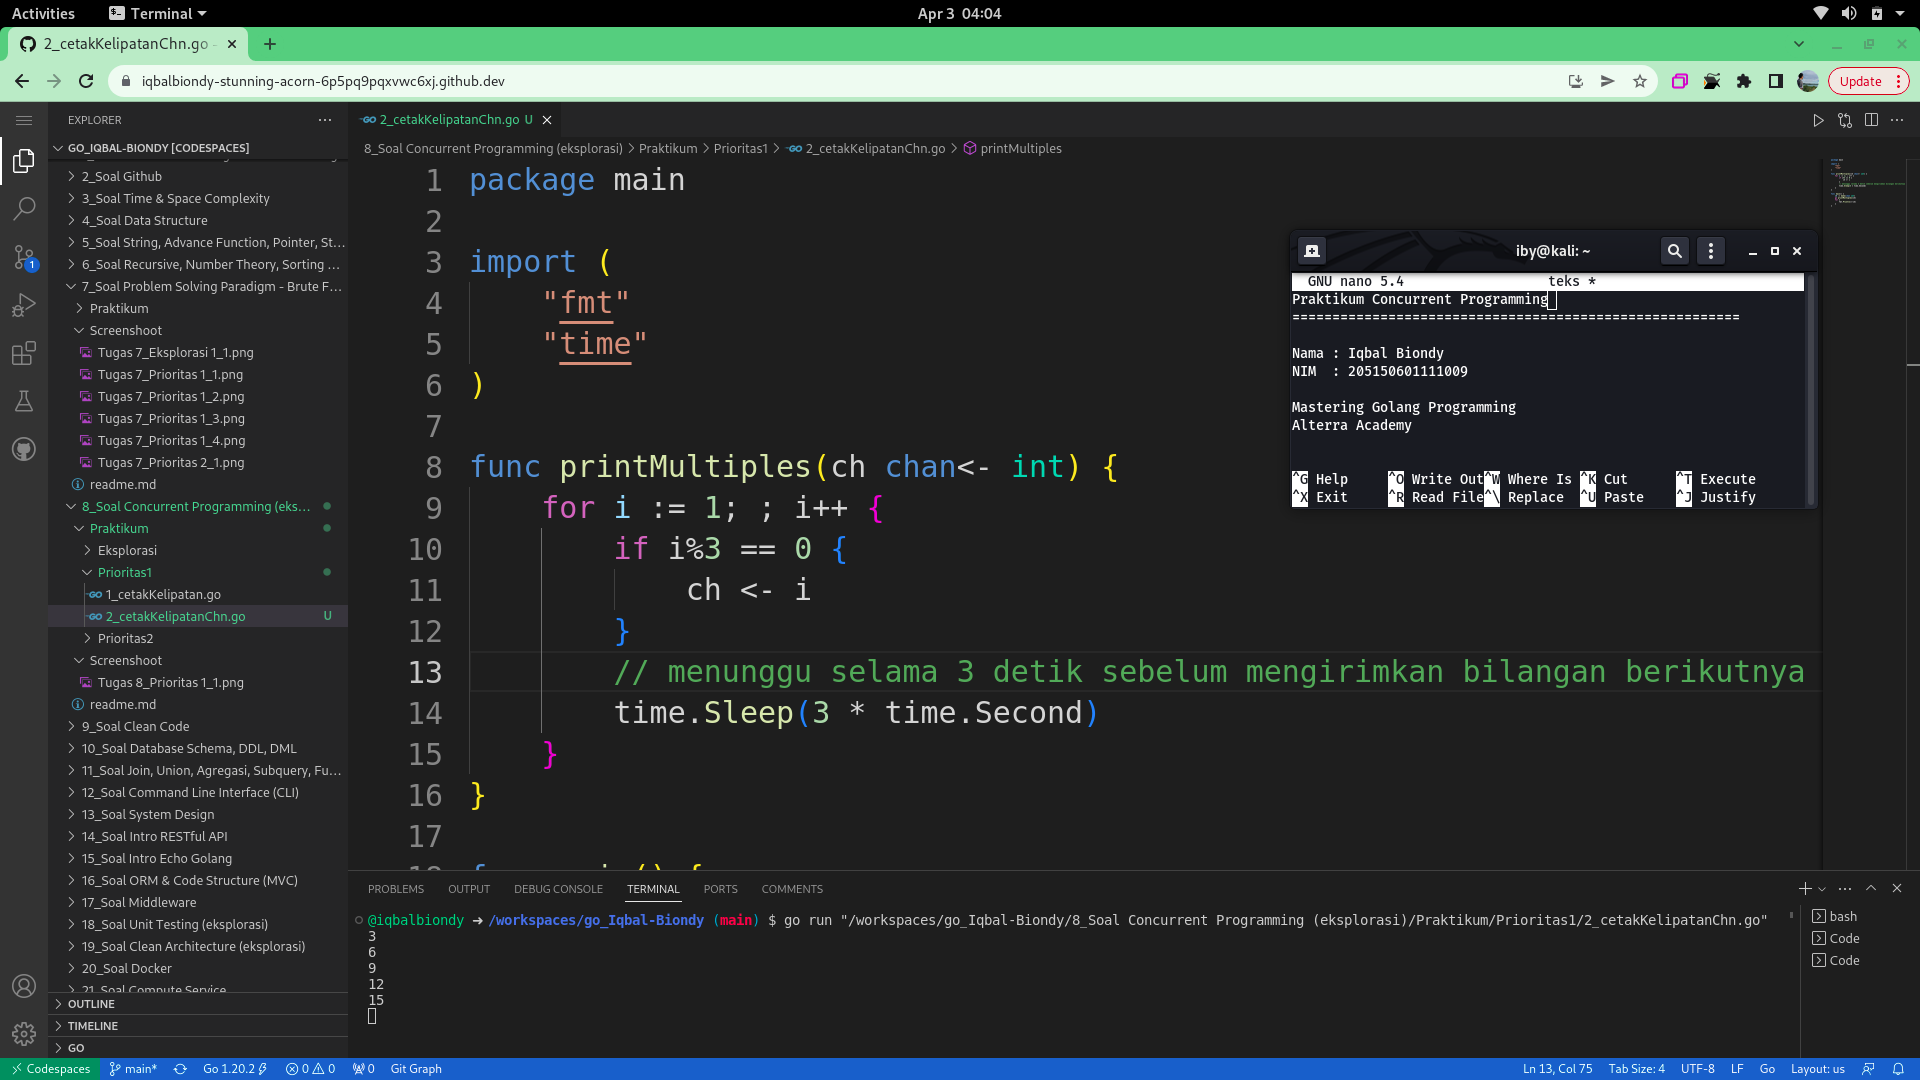
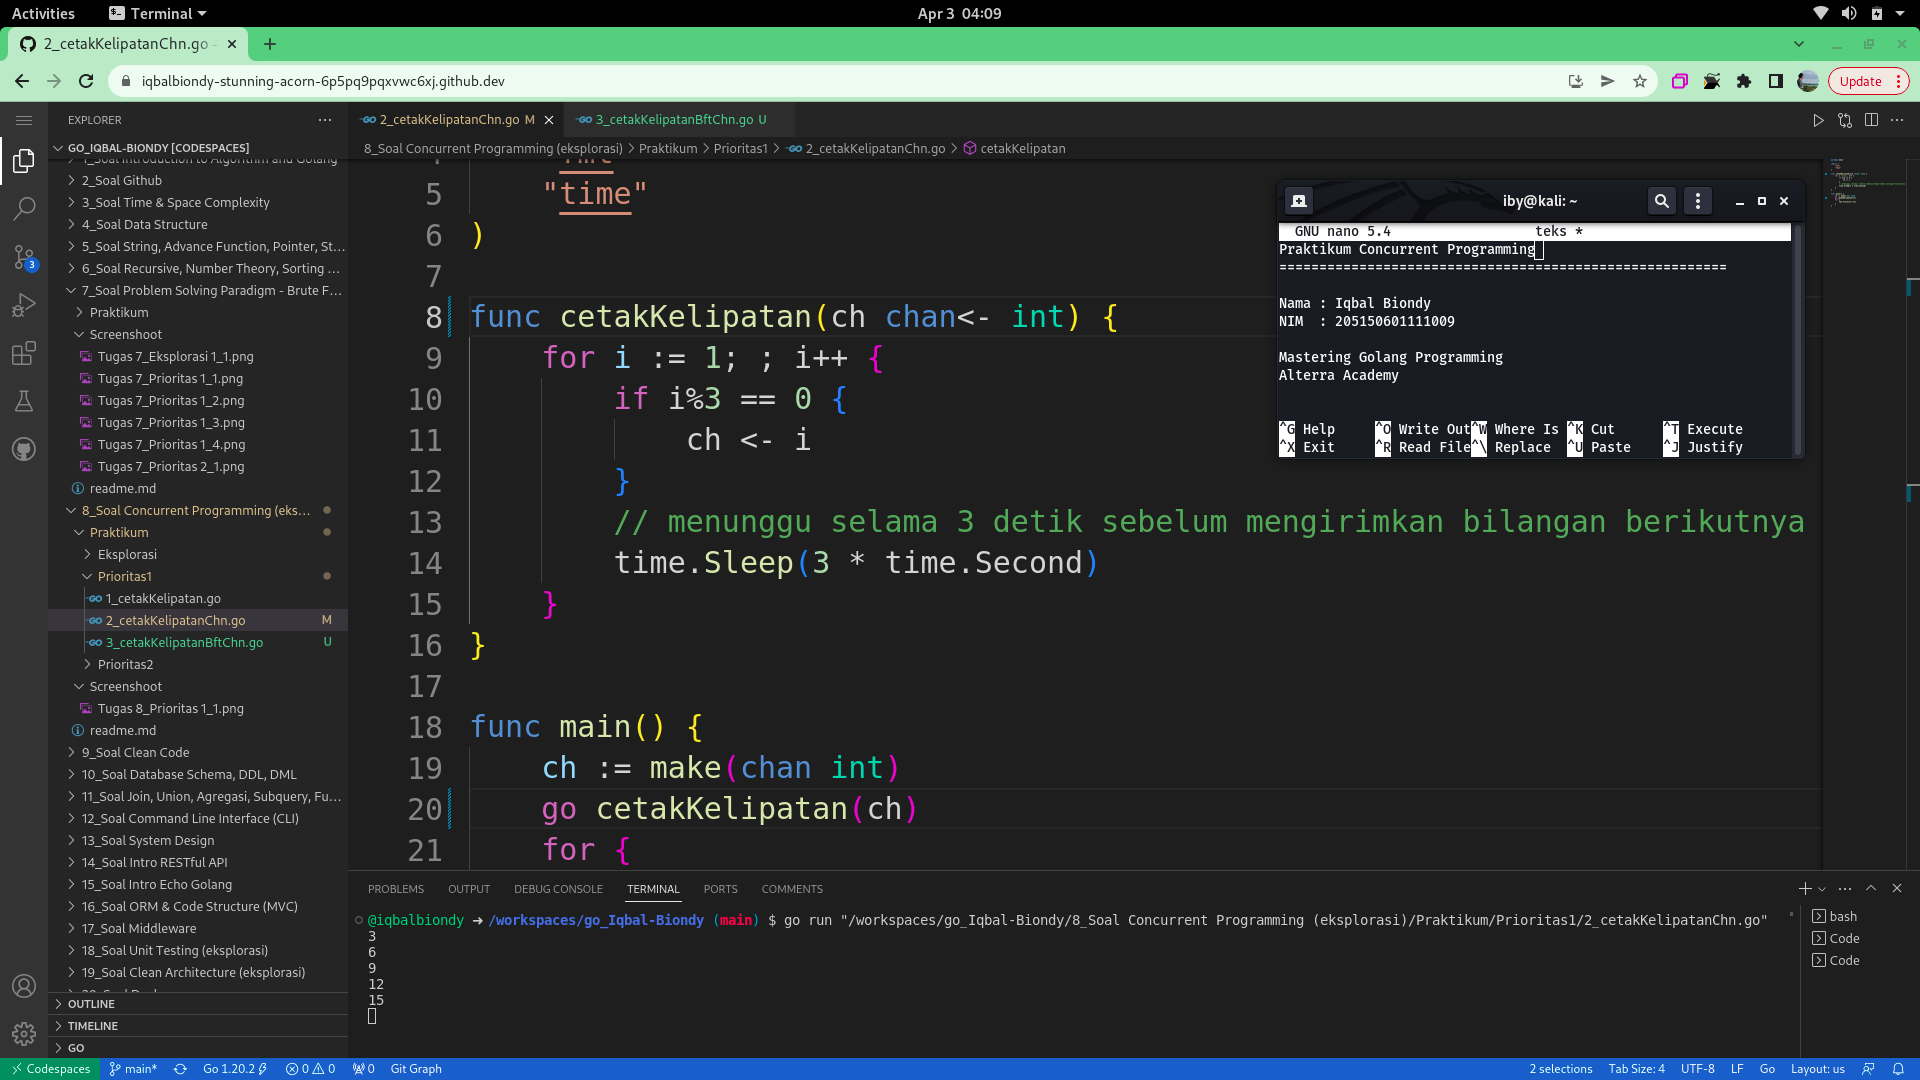
Tugas 8 Praktikum & Resume by Iqbal Biondy

diff --git a/8_Soal Concurrent Programming (eksplorasi)/Praktikum/Prioritas1/3_cetakKelipatanBftChn.go b/8_Soal Concurrent Programming (eksplorasi)/Praktikum/Prioritas1/3_cetakKelipatanBftChn.go
@@ -11,12 +11,12 @@ func cetakKelipatan(ch chan<- int) {
             ch <- i
         }
 		// menunggu selama 3 detik sebelum mengirimkan bilangan berikutnya
-        time.Sleep(3 * time.Second) 
-    }
+        time.Sleep(3 * time.Second)     
+	}
 }
 
 func main() {
-    ch := make(chan int)
+    ch := make(chan int, 5) // buffer channel dengan kapasitas 5
     go cetakKelipatan(ch)
     for {
         fmt.Println(<-ch)
